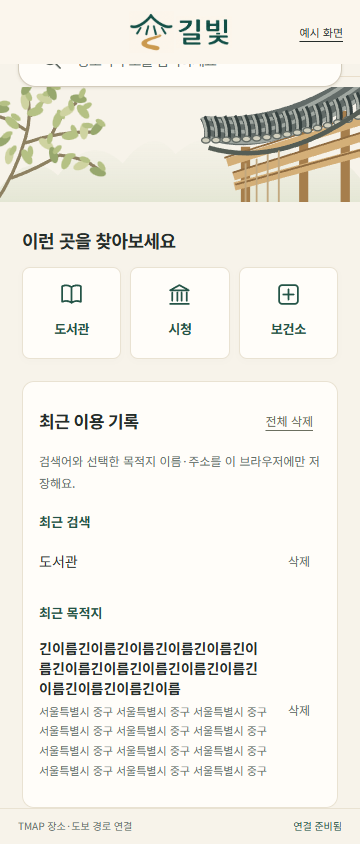
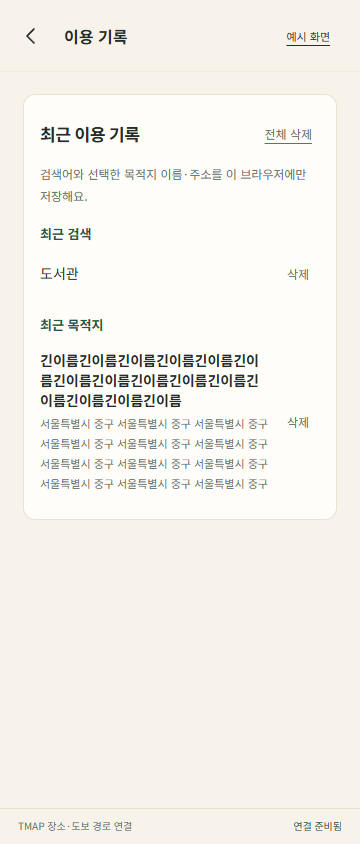
홈 최근 목적지를 1개로 줄이고 전체 기록 화면 분리

diff --git a/src/navigation/LiveNavigation.tsx b/src/navigation/LiveNavigation.tsx
@@ -7,7 +7,7 @@ import {useRecentHistory} from '../history';
 import {RecentHistoryPanel} from '../RecentHistory';
 import { WalkingMap } from './WalkingMap';
 
-type Stage='home'|'results'|'route'|'map';
+type Stage='home'|'results'|'route'|'map'|'history';
 interface Props {onDemo:()=>void;review?:boolean}
 export function LiveNavigation({onDemo,review=false}:Props) {
  const recent=useRecentHistory('live');
@@ -35,7 +35,7 @@ export function LiveNavigation({onDemo,review=false}:Props) {
  const routeAbort=useRef<AbortController|null>(null);
  const locationVersion=useRef(0);
  const alive=useRef(false);
- const stageTitle={home:'길빛',results:'장소 검색',route:'도보 경로 확인',map:'도보 경로 살펴보기'}[stage];
+ const stageTitle={home:'길빛',results:'장소 검색',route:'도보 경로 확인',map:'도보 경로 살펴보기',history:'이용 기록'}[stage];
  useEffect(()=>{alive.current=true;return()=>{alive.current=false;locationVersion.current++;searchAbort.current?.abort();routeAbort.current?.abort();};},[]);
  useEffect(()=>{
   const controller=new AbortController();
@@ -98,7 +98,8 @@ export function LiveNavigation({onDemo,review=false}:Props) {
   {stage==='home'?<Brand/>:<><button className="icon-button" aria-label="뒤로 가기" onClick={back}><Icon name="back"/></button><strong className="header-title">{stageTitle}</strong></>}
   <button className="live-demo-exit" onClick={onDemo}>{review?'시안 보기':'예시 화면'}</button>
  </header><main className={`app-content live-content live-${stage}`} ref={content}>
- {stage==='home'&&<><section className="home-hero"><Lattice/><Lattice right/><h2>어디로<br/>걸어갈까요<span>?</span></h2><form className="search-form" onSubmit={onSubmit}><button className="home-search-submit" type="submit" aria-label="실제 장소 검색" disabled={configured!==true}><Icon name="search" size={23}/></button><input aria-label="실제 목적지 검색" placeholder="장소나 주소를 검색하세요" value={query} maxLength={80} onChange={e=>setQuery(e.target.value)}/></form><Hanok/></section><div className="live-home-body">{setup}{error&&<p className="inline-error" role="alert">{error}</p>}<div className="section-heading"><h3>이런 곳을 찾아보세요</h3></div><div className="suggestions">{['도서관','시청','보건소'].map((q,i)=><button key={q} className="place-tile" disabled={configured!==true} onClick={()=>void submitSearch(q)}><Icon name={['book','building','health'][i]} size={25}/><strong>{q}</strong></button>)}</div><RecentHistoryPanel controller={recent} onSearch={q=>void submitSearch(q)} onDestination={p=>void submitSearch(p.name)}/>{locationPanel}<p className="live-privacy">위치를 확인하면 이 기기의 좌표를 가져와요.<br/>도보 경로를 찾을 때 출발·도착 위치가 TMAP에 전달돼요.</p></div></>}
+ {stage==='home'&&<><section className="home-hero"><Lattice/><Lattice right/><h2>어디로<br/>걸어갈까요<span>?</span></h2><form className="search-form" onSubmit={onSubmit}><button className="home-search-submit" type="submit" aria-label="실제 장소 검색" disabled={configured!==true}><Icon name="search" size={23}/></button><input aria-label="실제 목적지 검색" placeholder="장소나 주소를 검색하세요" value={query} maxLength={80} onChange={e=>setQuery(e.target.value)}/></form><Hanok/></section><div className="live-home-body">{setup}{error&&<p className="inline-error" role="alert">{error}</p>}<div className="section-heading"><h3>이런 곳을 찾아보세요</h3></div><div className="suggestions">{['도서관','시청','보건소'].map((q,i)=><button key={q} className="place-tile" disabled={configured!==true} onClick={()=>void submitSearch(q)}><Icon name={['book','building','health'][i]} size={25}/><strong>{q}</strong></button>)}</div><RecentHistoryPanel controller={recent} compact onDetails={()=>{setError('');setStage('history');}} onSearch={q=>void submitSearch(q)} onDestination={p=>void submitSearch(p.name)}/>{locationPanel}<p className="live-privacy">위치를 확인하면 이 기기의 좌표를 가져와요.<br/>도보 경로를 찾을 때 출발·도착 위치가 TMAP에 전달돼요.</p></div></>}
+ {stage==='history'&&<>{error&&<p className="inline-error" role="alert">{error}</p>}<RecentHistoryPanel controller={recent} onSearch={q=>void submitSearch(q)} onDestination={p=>void submitSearch(p.name)}/></>}
  {stage==='results'&&<section className="padded"><form className="search-form" onSubmit={onSubmit}><button type="submit" aria-label="다시 검색"><Icon name="search" size={21}/></button><input aria-label="검색어" value={query} maxLength={80} onChange={e=>setQuery(e.target.value)}/><button type="button" aria-label="검색어 지우기" onClick={()=>{searchAbort.current?.abort();setSearching(false);setQuery('');setPlaces([]);setSearched(false);setError('');}}><Icon name="close" size={18}/></button></form><div className="section-heading live-results-heading"><h3>검색 결과 {searched&&<em>{places.length}</em>}</h3><span>관련도순</span></div><p className="sample-description">TMAP 장소 검색 · 거리는 직선 거리예요.</p>{searching&&<p role="status" className="connection-note">장소를 찾고 있어요…</p>}{error&&<div className="connection-note" role="alert"><p>{error}</p><button className="secondary" onClick={()=>void submitSearch()}>다시 검색</button></div>}<div className="search-results">{places.map(place=><button className="result-card" key={place.id} onClick={()=>choose(place)}><span className="result-icon"><Icon name="pin"/></span><div className="result-copy"><small>{place.category}</small><h3>{place.name}</h3><p>{place.address}</p>{position&&<span>직선 {formatDistance(distanceBetween(position,place))}</span>}</div><Icon name="chevron" size={19}/></button>)}</div>{searched&&!places.length&&!error&&<div className="empty-state"><div className="empty-lattice"><Motif kind="lattice" size={54}/></div><h3>일치하는 장소가 없어요</h3><p>지역명과 장소명을 함께 입력해 보세요.</p></div>}</section>}
  {(stage==='route'||stage==='map')&&selected&&<section className="map-screen live-route-screen">{position?<><WalkingMap start={position} destination={selected} route={route} focusRequest={focusRequest}/><button className="map-locate icon-button" aria-label="출발 위치로 지도 이동" onClick={()=>setFocusRequest(n=>n+1)}><Icon name="locate"/></button></>:<div className="live-no-position"><Icon name="map" size={43}/><p>출발 위치를 확인하면<br/>목적지와 경로를 볼 수 있어요.</p></div>}
   <div className="map-bottom bottom-sheet"><span className="sheet-handle"/><div className="destination-heading"><span className="result-icon"><Icon name="pin"/></span><div><h2>{selected.name}</h2><p>{selected.address}</p></div></div>{setup}

diff --git a/src/main.tsx b/src/main.tsx
@@ -8,8 +8,8 @@ import {RecentHistoryPanel} from './RecentHistory';
 import {CameraPreview} from './CameraPreview';
 import { LiveNavigation } from './navigation/LiveNavigation';
 
-type Screen = 'home'|'search'|'route'|'map'|'camera'|'recheck'|'arrival';
-const screenNames: Record<Screen,string> = {home:'목적지 검색',search:'검색 결과',route:'도보 경로',map:'지도 안내',camera:'카메라 안내',recheck:'방향 재확인',arrival:'도착 안내'};
+type Screen = 'home'|'search'|'route'|'map'|'camera'|'recheck'|'arrival'|'history';
+const screenNames: Record<Screen,string> = {home:'목적지 검색',search:'검색 결과',route:'도보 경로',map:'지도 안내',camera:'카메라 안내',recheck:'방향 재확인',arrival:'도착 안내',history:'이용 기록'};
 const places = [
  {name:'중앙도서관',icon:'book',distance:'520m',time:'8분',address:'한빛시 중앙로 25',tag:'도서관'},
  {name:'시청',icon:'building',distance:'940m',time:'14분',address:'한빛시 시민로 1',tag:'공공기관'},
@@ -64,8 +64,9 @@ function App() {
     {screen==='home' && <>
      <section className="home-hero"><Lattice/><Lattice right/><h2>어디로<br/>걸어갈까요<span>?</span></h2><form className="search-form" onSubmit={e=>{e.preventDefault();search(query);}}><button className="home-search-submit" aria-label="검색" type="submit"><Icon name="search" size={23}/></button><input aria-label="목적지 검색" placeholder="장소나 주소를 검색하세요" value={query} onChange={e=>setQuery(e.target.value)}/></form><Hanok/></section>
      {activeGuide&&<section className="ongoing-guide" aria-label="진행 중인 안내"><div><small>진행 중인 안내 · 시안</small><strong>{activeGuide.place.name}</strong><p>안내 화면을 닫아도 경로는 유지돼요.</p></div><button className="primary" onClick={()=>{setSelected(activeGuide.place);go(activeGuide.screen,activeGuide.place);}}>안내로 돌아가기<Icon name="arrow" size={18}/></button><button className="text-button" onClick={()=>setEnding(true)}>안내 종료</button></section>}<section className="live-entry"><button className="secondary" onClick={()=>switchMode('live')}><Icon name="search" size={19}/>실제 장소로 길찾기<Icon name="arrow" size={18}/></button><p>지도·도보 경로 연결 화면으로 이동해요.</p></section><section className="recent-section"><div className="section-heading"><h3>예시 목적지</h3><span>장소를 골라 둘러보세요</span></div><div className="recent-grid">{places.map(p=><button key={p.name} className="place-tile" onClick={()=>search(p.name)}><span className="place-icon"><Icon name={p.icon} size={26}/></span><strong>{p.name}</strong><small>도보 {p.time}</small></button>)}</div></section>
-     <RecentHistoryPanel controller={recent} demo onSearch={search} onDestination={p=>{const example=places.find(item=>item.name===p.id);if(example)choose(example);else search(p.name);}}/><section className="location-section"><div className="location-label"><Icon name="locate" size={18}/><span>현재 위치</span><small>예시 위치</small></div><div className="location-card"><div><strong>중앙공원 산책로 입구</strong><p>한빛시 중앙동 일대</p></div><button aria-label="현재 위치 예시 확인" className="icon-button" onClick={()=>showNotice('시안에서는 예시 위치를 사용해요.')}><Icon name="locate" size={20}/></button></div><DemoMap compact/></section><div className="home-footer"><div className="motif-divider"><span className="little-line"/><Motif kind="knot" size={23}/><span className="little-line"/></div><p>길을 찾는 순간도, 편안하도록</p></div>
+     <RecentHistoryPanel controller={recent} demo compact onDetails={()=>go('history')} onSearch={search} onDestination={p=>{const example=places.find(item=>item.name===p.id);if(example)choose(example);else search(p.name);}}/><section className="location-section"><div className="location-label"><Icon name="locate" size={18}/><span>현재 위치</span><small>예시 위치</small></div><div className="location-card"><div><strong>중앙공원 산책로 입구</strong><p>한빛시 중앙동 일대</p></div><button aria-label="현재 위치 예시 확인" className="icon-button" onClick={()=>showNotice('시안에서는 예시 위치를 사용해요.')}><Icon name="locate" size={20}/></button></div><DemoMap compact/></section><div className="home-footer"><div className="motif-divider"><span className="little-line"/><Motif kind="knot" size={23}/><span className="little-line"/></div><p>길을 찾는 순간도, 편안하도록</p></div>
     </>}
+    {screen==='history'&&<RecentHistoryPanel controller={recent} demo onSearch={search} onDestination={p=>{const example=places.find(item=>item.name===p.id);if(example)choose(example);else search(p.name);}}/>}
     {screen==='search' && <section className="search-page padded"><form className="search-form" onSubmit={e=>{e.preventDefault();recent.recordSearch(query);setQuery(query.trim());}}><Icon name="search"/><input aria-label="검색어" placeholder="장소나 주소를 검색하세요" value={query} onChange={e=>setQuery(e.target.value)}/>{query&&<button type="button" aria-label="검색어 지우기" onClick={()=>setQuery('')}><Icon name="close" size={19}/></button>}</form><div className="section-heading"><h3>검색 결과 <em>{results.length}</em></h3><span>가까운 거리순</span></div><p className="sample-description">아래 장소와 주소는 시안용 가상 정보예요.</p><div className="search-results">{results.map((p,i)=><button key={p.name} className="result-card" onClick={()=>choose(p)}><span className="result-icon"><Icon name={p.icon}/></span><div className="result-copy"><small>{p.tag}{i===0?' · 가장 가까운 곳':''}</small><h3>{p.name}</h3><p>{p.address}</p><span><Icon name="walk" size={16}/>{p.distance}<i/>도보 {p.time}</span></div><Icon name="chevron" size={19}/></button>)}</div>{results.length===0&&<div className="empty-state"><div className="empty-lattice"><Motif kind="lattice" size={54}/></div><h3>일치하는 장소가 없어요</h3><p>중앙도서관, 시청, 보건소를 검색해 보세요.</p><button className="secondary" onClick={()=>setQuery('')}>전체 예시 장소 보기</button></div>}<div className="quiet-note"><Icon name="leaf" size={19}/><span>목적지를 선택하면<br/>걸어갈 경로를 확인할 수 있어요.</span></div></section>}
     {(screen==='route'||screen==='map') && <section className="map-screen">
      {screen==='map'&&<div className="turn-card"><Icon name="turn" size={40}/><div><small>다음 이동 방향</small><h2>30m 앞 오른쪽</h2><p>{selected.name} 방향</p></div></div>}

diff --git a/src/RecentHistory.tsx b/src/RecentHistory.tsx
@@ -1,9 +1,13 @@
 import {useState} from 'react';
 import type {HistoryController,SavedDestination} from './history';
-export function RecentHistoryPanel({controller,onSearch,onDestination,demo=false}:{controller:HistoryController;onSearch:(q:string)=>void;onDestination:(place:SavedDestination)=>void;demo?:boolean}){
+export function RecentHistoryPanel({controller,onSearch,onDestination,demo=false,compact=false,onDetails}:{compact?:boolean;onDetails?:()=>void;controller:HistoryController;onSearch:(q:string)=>void;onDestination:(place:SavedDestination)=>void;demo?:boolean}){
  const [confirm,setConfirm]=useState(false);
  const {history,warning}=controller;
  const hasItems=history.searches.length>0||history.destinations.length>0;
+ if(compact){const place=history.destinations[0];return <section className="history-panel history-compact" aria-label={demo?'최근 예시 목적지':'최근 목적지'}><div className="section-heading"><h3>최근 목적지</h3><button className="text-button" onClick={onDetails}>기록 자세히 보기</button></div>
+ {place?<button className="history-item" aria-label={`${place.name} 목적지 다시 찾기`} onClick={()=>onDestination(place)}><strong>{place.name}</strong><small>{place.address}</small></button>:<p className="history-empty">최근 목적지가 없어요.</p>}
+ {demo&&<p className="history-note">예시 화면에서 선택한 목적지예요.</p>}{warning&&<p className="inline-error" role="alert">{warning}</p>}</section>;}
+
  return <section className="history-panel" aria-label={demo?'예시 이용 기록':'이용 기록'}><div className="section-heading"><h3>{demo?'예시 이용 기록':'최근 이용 기록'}</h3>{hasItems&&<button className="text-button" onClick={()=>setConfirm(true)}>전체 삭제</button>}</div>
  <p className="history-note">{demo?'예시 화면에서 사용한 기록이에요. 실제 검색 기록과 따로 저장돼요.':'검색어와 선택한 목적지 이름·주소를 이 브라우저에만 저장해요.'}</p>
  {confirm&&hasItems&&<div className="history-confirm" role="group" aria-label="전체 기록 삭제 확인"><p>{demo?'예시 이용':'실제 검색 이용'} 기록을 모두 삭제할까요?</p><button className="secondary" onClick={()=>setConfirm(false)}>취소</button><button className="primary" onClick={()=>{controller.clear();setConfirm(false);}}>모두 삭제하기</button></div>}

diff --git a/src/style.css b/src/style.css
@@ -68,3 +68,5 @@ button:focus-visible,a:focus-visible,input:focus-visible{outline-color:var(--tea
 .history-note,.history-empty{font-size:12px;color:var(--muted);line-height:1.8}.history-panel h4{font-size:13px;margin:18px 0 6px;color:var(--pine)}.history-panel ul{list-style:none;margin:0;padding:0}.history-panel li{display:flex;align-items:center;gap:8px;border-bottom:1px solid var(--line)}.history-panel li:last-child{border-bottom:0}
 .history-item{flex:1;min-width:0;min-height:48px;text-align:left;font-size:14px;padding:10px 0;overflow-wrap:anywhere}.history-item strong{display:block;font-size:14px}.history-item small{display:block;font-size:11px;line-height:1.8;color:var(--muted);margin-top:4px}.history-delete{flex:none;min-height:48px;min-width:44px;color:var(--muted);font-size:12px}
 .history-confirm{display:grid;grid-template-columns:1fr 1fr;gap:8px;padding:12px;background:var(--paper);border-radius:8px;margin:12px 0}.history-confirm p{grid-column:1/-1;font-size:13px;line-height:1.8}.history-confirm button{font-size:12px;padding:10px;min-height:48px}
+
+.history-compact .history-item{width:100%;padding:8px 0;display:block}.history-compact .history-item strong,.history-compact .history-item small{white-space:nowrap;overflow:hidden;text-overflow:ellipsis}.history-compact .history-note{margin-top:8px;font-size:11px}.history-compact .section-heading{margin-bottom:4px}.history-compact .section-heading h3{font-size:16px}.history-compact .text-button{font-size:11px}.live-history>.history-panel{flex-shrink:0}

diff --git a/docs/issues/2026-11-06-history-summary.md b/docs/issues/2026-11-06-history-summary.md
@@ -1,0 +1,13 @@
+# 홈 기록 요약과 전체 기록 화면 분리
+
+## 문제
+홈에서 최근 검색·목적지 전체와 삭제 관리가 표시되어 기록이 늘수록 홈 스크롤이 길어졌다.
+
+## 원인
+전체 기록 관리 컴포넌트를 요약 없이 홈에 직접 배치했다.
+
+## 해결방법
+홈은 최근 목적지 1개와 기록 자세히 보기 버튼만 제공한다. 상세 화면에서 최근 검색·전체 목적지·개별 삭제·전체 삭제를 제공한다. 예시/실제 모드에 동일하게 적용하고 기존 저장 데이터는 유지한다. 홈 목적지 이름·주소는 한 줄 말줄임으로 높이를 제한한다. 상세에서 삭제한 뒤 홈으로 돌아오면 다음 최신 목적지가 표시된다.
+
+## 결과
+빌드·브라우저 테스트 35개 통과 및 실제 배포에서 요약·상세·삭제·홈 복귀 확인. 검증 문서에 기록했다. 실제 검색 모드의 키 미설정 시 재검색 실패도 상세 화면에서 안내한다.

diff --git a/docs/validation-2026-11-06-history-summary.md b/docs/validation-2026-11-06-history-summary.md
@@ -1,0 +1,11 @@
+# 홈 기록 요약 검증
+
+- npm run build 통과, 브라우저 테스트 35개 통과.
+- 실제/예시 모드 모두 홈에는 최신 목적지 1개만 표시하고 검색어·이전 목적지 목록은 표시하지 않음 확인.
+- 기록 자세히 보기 → 별도 전체 기록 → 개별 삭제 → 뒤로 가기 → 다음 최신 목적지 표시 확인.
+- 기존 저장·새로고침 유지·전체 삭제 취소/확정·실제/예시 분리 검증 유지.
+- 360px 긴 목적지 상세 목록 가로 넘침 없음, 기존 모바일 360·390·430px 및 카메라 회귀 통과.
+- 저장 키·데이터 스키마 변경 없음. TMAP 실제 인증은 이번 UI 수정 범위가 아님.
+
+- 원격 https://gilbit.vercel.app 에서 요약·상세·삭제·홈 복귀와 설정 API HTTP200 확인. 배포 dpl_n5aTBaj1VApfB2mVAc6W9FLCxxkG READY.
+- 배포 캡처 gilbit-history-summary.png, gilbit-history-details.png 저장. 요약 캡처 육안 확인.

diff --git a/docs/history.md b/docs/history.md
@@ -1,6 +1,6 @@
 # 이용 기록 저장
 
-- 홈의 최근 이용 기록에서 최근 검색·최근 목적지를 확인한다. 예시 화면은 예시 이용 기록으로 구분한다.
+- 홈은 최근 목적지 1개만 표시한다. 기록 자세히 보기를 누르면 별도 이용 기록 화면에서 최근 검색·전체 목적지와 삭제 기능을 사용한다. 예시 화면은 예시 이용 기록으로 구분한다.
 - 검색어는 유효한 실제 검색 응답을 받았을 때, 목적지는 결과에서 선택했을 때 저장한다. 예시 모드에서는 검색 제출과 장소 선택 시 저장한다.
 - 최대 10개씩 최신순이며 중복 항목은 위로 이동한다. 목적지는 이름·주소와 중복 구분 ID만 저장한다.
 - 검색 항목은 다시 검색한다. 실제 최근 목적지를 누르면 최신 검색 결과로 이동한다. 좌표를 저장하지 않으므로 저장 기록만으로 경로를 요청하지 않는다.

diff --git a/docs/deployment.md b/docs/deployment.md
@@ -5,7 +5,7 @@
 - Vercel 프로젝트 gilbit, 팀 sunyoungs-projects-c61fca90, Hobby.
 - 첫 배포는 Vercel 정책에 따라 사용자 승인 후 Production으로 진행했다. 기능 검증용 배포이며 TMAP 키는 설정하지 않는다.
 - 주소: https://gilbit.vercel.app
-- 최종 배포 ID: dpl_ER61fG8P3oV7itWiKC4f2138SfEt
+- 최종 배포 ID: dpl_n5aTBaj1VApfB2mVAc6W9FLCxxkG
 - React/Vite 정적 화면과 /api/navigation 함수를 함께 빌드한다.
 - Node.js는 package.json의 22 이상 25 미만 조건에 따라 사용한다.
 - 로컬 환경 파일·에이전트 설정·검증 캡처·문서는 .vercelignore로 CLI 업로드에서 제외한다.

diff --git a/CHANGELOG.md b/CHANGELOG.md
@@ -81,3 +81,8 @@
 - 최근 검색·선택한 목적지를 브라우저에 최대 10개씩 저장, 중복 최신순 정리.
 - 개별 삭제·확인 후 전체 삭제, 저장 실패 안내와 손상 데이터 복구 처리.
 - 실제/예시 기록 분리, 고정된 목록은 예시 목적지로 명칭 수정. 좌표·영상 저장 제외.
+
+## 2026-11-06 홈 기록 요약
+
+- 홈에는 최신 목적지 1개만 표시하고 전체 기록은 자세히 보기로 이동.
+- 별도 이용 기록 화면에서 검색·전체 목적지·삭제 제공. 저장 데이터 유지.
